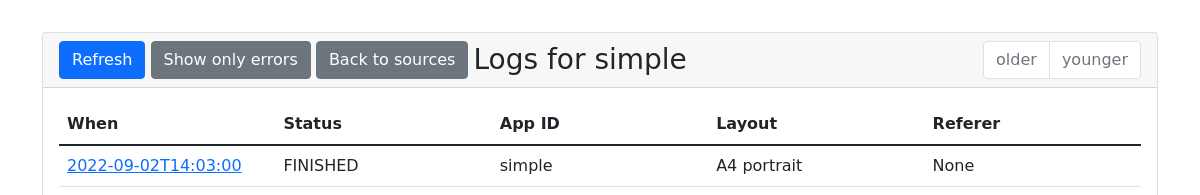
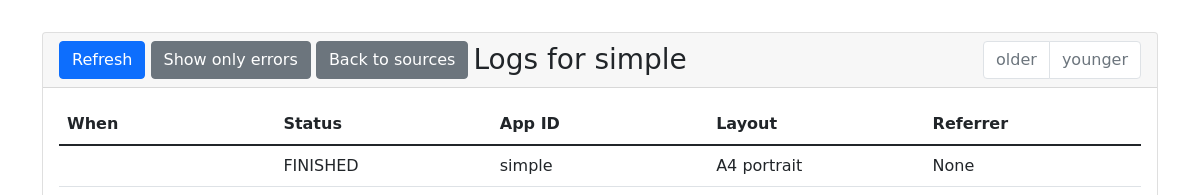
Fix code spell

Changed region(s): [[0.0617, 0.8, 0.2158, 0.8923], [0.8017, 0.6154, 0.8633, 0.6769]]

diff --git a/api/mapfish_print_logs/models.py b/api/mapfish_print_logs/models.py
@@ -37,7 +37,7 @@ class PrintAccounting(Base):  # type: ignore
             map_export=self.mapexport,
             output_format=self.output_format,
             processing_time_ms=self.processing_time_ms,
-            referer=self.referer,
+            referrr=self.referer,
             stats=self.stats,
             status=self.status,
             total_time_ms=self.total_time_ms,
